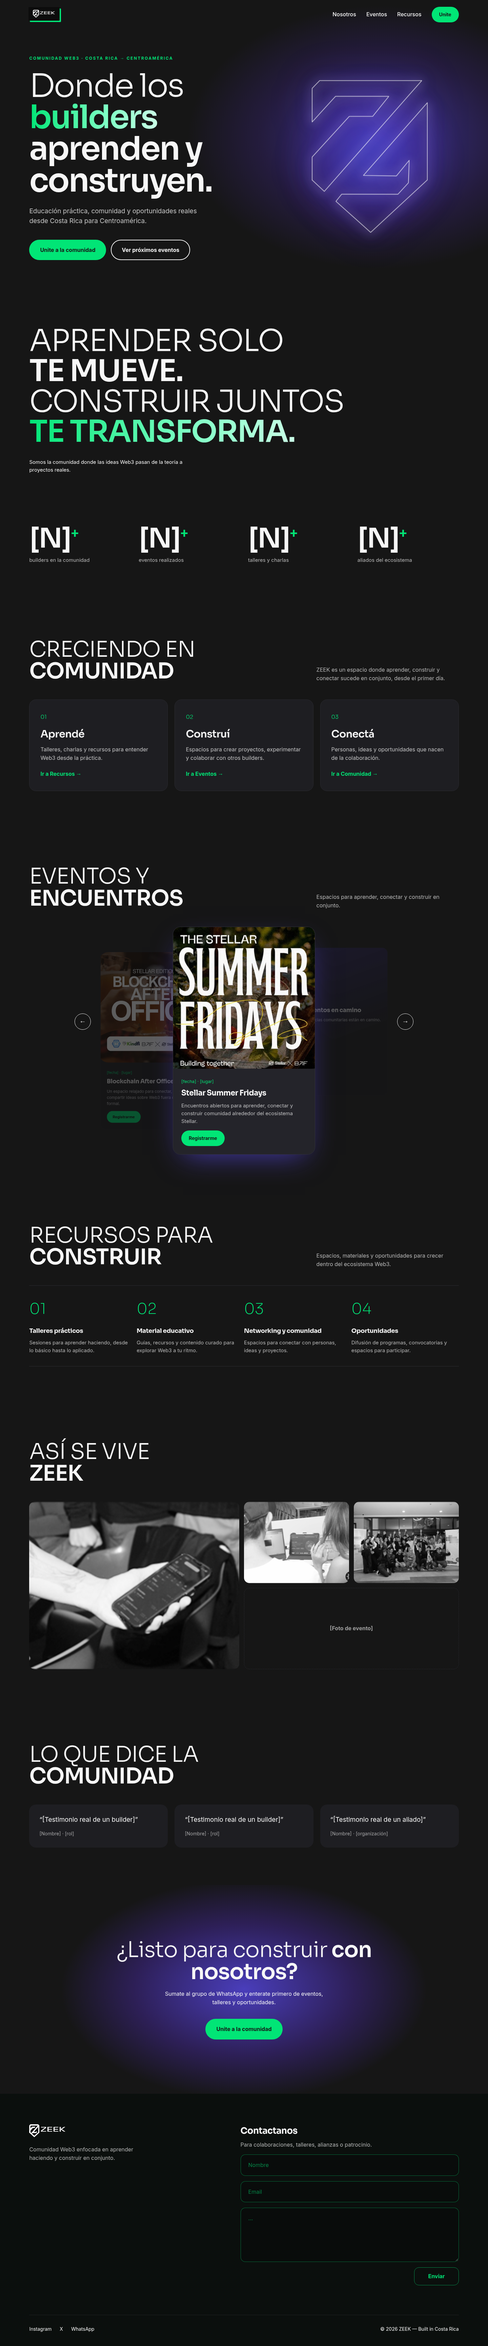
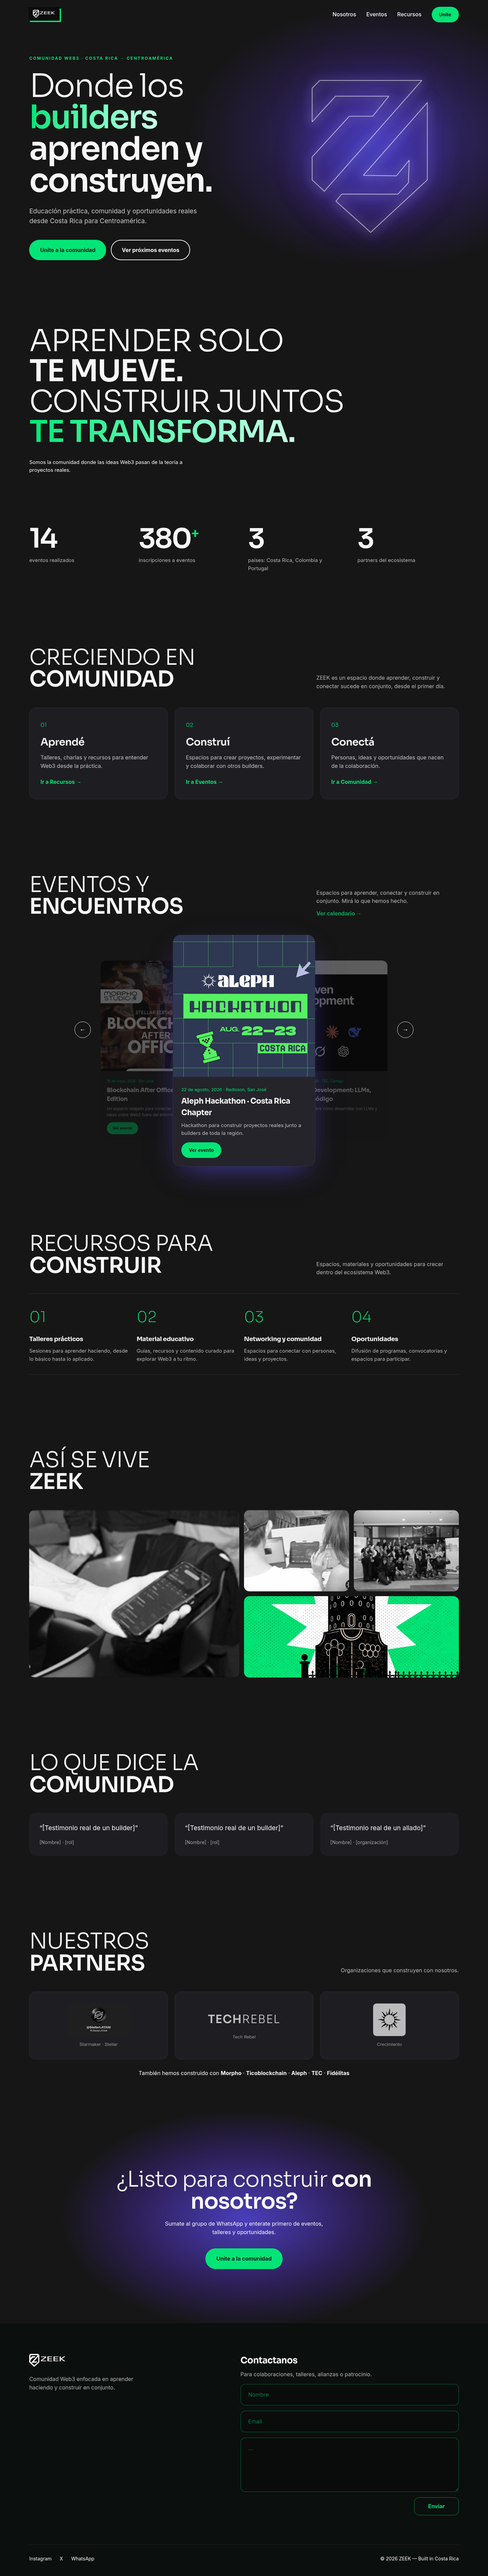
P9: datos reales de ZEEK (eventos, partners, cifras, links)

diff --git a/p9/index.html b/p9/index.html
@@ -45,17 +45,17 @@ h2{font-size:clamp(30px,4.4vw,68px);line-height:1.02;text-transform:uppercase}.h
 /* carousel */
 .car{position:relative;height:640px;perspective:1400px}
 .slide{position:absolute;top:0;left:50%;width:min(420px,78vw);margin-left:calc(min(420px,78vw)/-2);background:var(--c2);border:1px solid #303038;border-radius:22px;overflow:hidden;transition:transform .6s cubic-bezier(.2,.8,.2,1),opacity .6s,filter .6s;cursor:pointer}
-.slide img{aspect-ratio:1;object-fit:cover;width:100%}.slide>div{padding:24px}.slide small{color:var(--g);font-size:13px}.slide h3{font-size:22px;margin:6px 0 8px}.slide p{opacity:.72;font-size:15px;margin-bottom:16px}
+.slide img{aspect-ratio:1;object-fit:cover;object-position:top;width:100%}.slide>div{padding:24px}.slide small{color:var(--g);font-size:13px}.slide h3{font-size:22px;margin:6px 0 8px}.slide p{opacity:.72;font-size:15px;margin-bottom:16px}
 .slide.soon{display:flex;flex-direction:column;justify-content:center;min-height:560px;background:linear-gradient(160deg,rgba(91,75,242,.35),var(--c2) 60%)}
 .slide.c{transform:translateX(0) scale(1);z-index:3;box-shadow:0 30px 80px -30px rgba(91,75,242,.7)}
-.slide.l{transform:translateX(-62%) scale(.78);z-index:1;opacity:.55;filter:brightness(.6)}
+.slide.h{transform:scale(.6);opacity:0;z-index:0;pointer-events:none}.cal{display:inline-block;margin-top:12px;color:var(--g);font-weight:700}.slide.l{transform:translateX(-62%) scale(.78);z-index:1;opacity:.55;filter:brightness(.6)}
 .slide.r{transform:translateX(62%) scale(.78);z-index:1;opacity:.55;filter:brightness(.6)}
 .cc{display:flex;justify-content:center;align-items:center;gap:18px;margin-top:10px}.arr{position:absolute;top:280px;transform:translateY(-50%);z-index:5;backdrop-filter:blur(8px);background:rgba(22,22,22,.6)!important;}#pv{left:calc(50% - min(420px,78vw)/2 - 290px)}#nx{right:calc(50% - min(420px,78vw)/2 - 290px)}.arr:hover{background:var(--g)!important}.arr,.cc button{width:48px;height:48px;border-radius:50%;border:1.5px solid var(--w);background:none;color:var(--w);font-size:20px;cursor:pointer}.arr:hover{background:var(--g);border-color:var(--g);color:var(--k)}
 .dots{display:flex;gap:8px}.dots i{width:9px;height:9px;border-radius:9px;background:#444;transition:.3s;cursor:pointer}.dots i.on{width:28px;background:var(--g)}
 /* recursos */
 .rec{display:grid;grid-template-columns:repeat(4,1fr);border-top:1px solid #2c2c30}.rec article{padding:34px 26px 34px 0;border-bottom:1px solid #2c2c30}.rec b{font-family:Sora;font-weight:200;font-size:44px;color:var(--g);display:block;margin-bottom:18px}.rec h3{font-size:18px;margin-bottom:8px}.rec p{opacity:.7;font-size:15px}
 /* gallery */
-.gal{display:grid;grid-template-columns:2fr 1fr 1fr;grid-template-rows:240px 240px;gap:14px}.gal img,.phd{width:100%;height:100%;object-fit:cover;border-radius:16px}.gal img:first-child{grid-row:span 2}.phd{display:grid;place-items:center;grid-column:span 2;border:1px dashed #3a3a44;opacity:.6;font-weight:700}
+.gal{display:grid;grid-template-columns:2fr 1fr 1fr;grid-template-rows:240px 240px;gap:14px}.gal img,.phd{width:100%;height:100%;object-fit:cover;border-radius:16px}.gal img:first-child{grid-row:span 2}.gal .wide{grid-column:span 2;object-position:center 30%}.phd{display:grid;place-items:center;grid-column:span 2;border:1px dashed #3a3a44;opacity:.6;font-weight:700}
 .tq{display:grid;grid-template-columns:repeat(3,1fr);gap:20px}.tq blockquote{padding:30px;border-radius:20px;background:var(--c);font-size:19px}.tq cite{display:block;margin-top:16px;font-style:normal;font-size:14px;opacity:.6}
 /* cierre */
 .cierre{text-align:center;padding:160px 6vw;background:radial-gradient(ellipse 50% 70% at 50% 50%,rgba(91,75,242,.75),rgba(99,53,237,.3) 45%,transparent 75%)}
@@ -73,38 +73,38 @@ form input::placeholder,form textarea::placeholder{color:rgba(1,229,118,.55)}for
 @media(max-width:860px){.burger{display:block;font-size:26px;cursor:pointer}.nav nav{display:none;position:absolute;top:100%;left:0;right:0;flex-direction:column;padding:24px;gap:18px;background:rgba(22,22,22,.95);backdrop-filter:blur(16px)}#m:checked~nav{display:flex}
 section{padding:72px 6vw}.hero{grid-template-columns:1fr;min-height:auto;padding-top:130px;background:radial-gradient(ellipse 90% 40% at 50% 80%,rgba(91,75,242,.5),transparent 70%)}.hero h1{font-size:clamp(32px,9.6vw,56px)}.iso{max-width:300px;margin:20px auto 0}
 .mani p{font-size:clamp(24px,7.6vw,48px)}.stats{grid-template-columns:1fr 1fr}.cards,.tq{grid-template-columns:1fr}.rec{grid-template-columns:1fr 1fr}
-.car{height:600px}#pv{left:0}#nx{right:0}.slide.l{transform:translateX(-30%) scale(.8)}.slide.r{transform:translateX(30%) scale(.8)}
+.car{height:600px}#pv{left:0}#nx{right:0}.slide.h{transform:scale(.6);opacity:0;z-index:0;pointer-events:none}.cal{display:inline-block;margin-top:12px;color:var(--g);font-weight:700}.slide.l{transform:translateX(-30%) scale(.8)}.slide.r{transform:translateX(30%) scale(.8)}
 .gal{grid-template-columns:1fr 1fr;grid-template-rows:160px 160px 160px}.gal img:first-child{grid-column:span 2;grid-row:auto}footer{grid-template-columns:1fr}.soc span{margin-left:0}h2{font-size:clamp(26px,7.6vw,40px)}.cierre{padding:110px 6vw}}
-</style></head><body>
+.pl{display:grid;grid-template-columns:repeat(3,1fr);gap:20px}.pl a{display:flex;flex-direction:column;align-items:center;justify-content:center;gap:14px;height:200px;border-radius:18px;background:var(--c);border:1px solid #2b2b31;transition:.3s}.pl img{height:96px;max-width:70%;object-fit:contain;border-radius:10px;filter:grayscale(1) brightness(.9) contrast(1.1);opacity:.75;transition:.3s}.pl span{font-size:13px;opacity:.55}.pl a:hover{border-color:var(--g)}.pl a:hover img{filter:none;opacity:1}.wm{font-family:Sora;font-size:34px;font-weight:600;letter-spacing:.04em;opacity:.75;transition:.3s}.wm i{font-style:normal;font-weight:300}.pl a:hover .wm{opacity:1;color:var(--g)}.also{margin-top:28px;opacity:.65;text-align:center}.also b{font-weight:600;color:var(--w)}@media(max-width:860px){.pl{grid-template-columns:1fr}.pl a{height:150px}}</style></head><body>
 <header class="nav" id="nav"><a class="logo" href="#top"><span><img src="assets/zeek-navbar.png" alt="ZEEK"></span></a>
 <input type="checkbox" id="m"><label for="m" class="burger">☰</label>
-<nav><a href="#nosotros">Nosotros</a><a href="#eventos">Eventos</a><a href="#recursos">Recursos</a><a class="btn pri sm" href="https://chat.whatsapp.com/DD9aCaSvCDEI7avYGZNVby?mode=gi_t">Unite</a></nav></header>
+<nav><a href="#nosotros">Nosotros</a><a href="#eventos">Eventos</a><a href="#recursos">Recursos</a><a class="btn pri sm" href="https://chat.whatsapp.com/IwohPWSez627OG74k8jRvA">Unite</a></nav></header>
 <section class="hero" id="top"><div>
 <p class="eyebrow">Comunidad Web3 · Costa Rica → Centroamérica</p>
 <h1><span class="thin">Donde los</span> <span class="heavy grad">builders</span> <span class="heavy">aprenden y construyen.</span></h1>
 <p class="lead">Educación práctica, comunidad y oportunidades reales desde Costa Rica para Centroamérica.</p>
-<div class="ctas"><a class="btn pri" href="https://chat.whatsapp.com/DD9aCaSvCDEI7avYGZNVby?mode=gi_t">Unite a la comunidad</a><a class="btn sec" href="#eventos">Ver próximos eventos</a></div></div>
+<div class="ctas"><a class="btn pri" href="https://chat.whatsapp.com/IwohPWSez627OG74k8jRvA">Unite a la comunidad</a><a class="btn sec" href="#eventos">Ver próximos eventos</a></div></div>
 <div class="iso"><img src="assets/zeek-glow.png" alt="Isotipo ZEEK"></div></section>
 <section class="mani"><p class="d"><span class="thin">Aprender solo</span><br><span class="heavy">te mueve.</span><br><span class="thin">Construir juntos</span><br><span class="heavy grad">te transforma.</span></p><small>Somos la comunidad donde las ideas Web3 pasan de la teoría a proyectos reales.</small></section>
-<section class="stats"><div><b>[N]<sup>+</sup></b><span>builders en la comunidad</span></div><div><b>[N]<sup>+</sup></b><span>eventos realizados</span></div><div><b>[N]<sup>+</sup></b><span>talleres y charlas</span></div><div><b>[N]<sup>+</sup></b><span>aliados del ecosistema</span></div></section>
+<section class="stats"><div><b>14</b><span>eventos realizados</span></div><div><b>380<sup>+</sup></b><span>inscripciones a eventos</span></div><div><b>3</b><span>países: Costa Rica, Colombia y Portugal</span></div><div><b>3</b><span>partners del ecosistema</span></div></section>
 <section id="nosotros"><div class="hd"><h2><span class="thin">Creciendo en</span><br><span class="heavy">comunidad</span></h2><p>ZEEK es un espacio donde aprender, construir y conectar sucede en conjunto, desde el primer día.</p></div>
 <div class="cards"><article class="card"><i>01</i><h3>Aprendé</h3><p>Talleres, charlas y recursos para entender Web3 desde la práctica.</p><a href="#recursos">Ir a Recursos →</a></article>
 <article class="card"><i>02</i><h3>Construí</h3><p>Espacios para crear proyectos, experimentar y colaborar con otros builders.</p><a href="#eventos">Ir a Eventos →</a></article>
-<article class="card"><i>03</i><h3>Conectá</h3><p>Personas, ideas y oportunidades que nacen de la colaboración.</p><a href="https://chat.whatsapp.com/DD9aCaSvCDEI7avYGZNVby?mode=gi_t">Ir a Comunidad →</a></article></div></section>
-<section id="eventos"><div class="hd"><h2><span class="thin">Eventos y</span><br><span class="heavy">encuentros</span></h2><p>Espacios para aprender, conectar y construir en conjunto.</p></div>
-<div class="car" id="car"><button class="arr" id="pv" aria-label="Anterior">←</button><button class="arr" id="nx" aria-label="Siguiente">→</button>
-<article class="slide"><img src="assets/event1.png" alt="Blockchain After Office"><div><small>[fecha] · [lugar]</small><h3>Blockchain After Office</h3><p>Un espacio relajado para conectar, conversar y compartir ideas sobre Web3 fuera del entorno formal.</p><a class="btn pri sm" href="#">Registrarme</a></div></article>
-<article class="slide"><img src="assets/event2.png" alt="Stellar Summer Fridays"><div><small>[fecha] · [lugar]</small><h3>Stellar Summer Fridays</h3><p>Encuentros abiertos para aprender, conectar y construir comunidad alrededor del ecosistema Stellar.</p><a class="btn pri sm" href="#">Registrarme</a></div></article>
-<article class="slide soon"><div><small>Próximamente</small><h3>Nuevos eventos en camino</h3><p>Nuevas experiencias comunitarias están en camino. Quedate cerca.</p><a class="btn sec sm" href="https://chat.whatsapp.com/DD9aCaSvCDEI7avYGZNVby?mode=gi_t">Avisame</a></div></article></div>
+<article class="card"><i>03</i><h3>Conectá</h3><p>Personas, ideas y oportunidades que nacen de la colaboración.</p><a href="https://chat.whatsapp.com/IwohPWSez627OG74k8jRvA" target="_blank" rel="noopener">Ir a Comunidad →</a></article></div></section>
+<section id="eventos"><div class="hd"><h2><span class="thin">Eventos y</span><br><span class="heavy">encuentros</span></h2><p>Espacios para aprender, conectar y construir en conjunto. Mirá lo que hemos hecho.<br><a class="cal" href="https://luma.com/ZEEK-" target="_blank" rel="noopener">Ver calendario →</a></p></div>
+<div class="car" id="car"><button class="arr" id="pv" aria-label="Anterior">←</button><button class="arr" id="nx" aria-label="Siguiente">→</button><article class="slide"><img src="assets/ev-bao.jpg" alt="Blockchain After Office · Morpho Edition" loading="lazy"><div><small>19 de mayo, 2026 · San José</small><h3>Blockchain After Office · Morpho Edition</h3><p>Un espacio relajado para conectar y compartir ideas sobre Web3 fuera del entorno formal.</p><a class="btn pri sm" href="https://luma.com/5zuk0e82" target="_blank" rel="noopener">Ver evento</a></div></article><article class="slide"><img src="assets/ev-aleph.jpg" alt="Aleph Hackathon · Costa Rica Chapter" loading="lazy"><div><small>22 de agosto, 2026 · Radisson, San José</small><h3>Aleph Hackathon · Costa Rica Chapter</h3><p>Hackathon para construir proyectos reales junto a builders de toda la región.</p><a class="btn pri sm" href="https://luma.com/76w11xtx" target="_blank" rel="noopener">Ver evento</a></div></article><article class="slide"><img src="assets/ev-ai.jpg" alt="AI-Driven Development: LLMs, agentes y código" loading="lazy"><div><small>11 de setiembre, 2026 · TEC, Cartago</small><h3>AI-Driven Development: LLMs, agentes y código</h3><p>Taller práctico sobre cómo desarrollar con LLMs y agentes de IA.</p><a class="btn pri sm" href="https://luma.com/i2xxr5zj" target="_blank" rel="noopener">Ver evento</a></div></article><article class="slide"><img src="assets/ev-pizza.jpg" alt="Global Pizza Party San José" loading="lazy"><div><small>22 de mayo, 2026 · San José</small><h3>Global Pizza Party San José</h3><p>Pizza, comunidad y conversación en la celebración global de builders.</p><a class="btn pri sm" href="https://luma.com/yeaozqwx" target="_blank" rel="noopener">Ver evento</a></div></article><article class="slide"><img src="assets/ev-learn.jpg" alt="Morpho Learn: Fundamentos de Web3 & Stellar" loading="lazy"><div><small>4 de mayo, 2026 · En línea</small><h3>Morpho Learn: Fundamentos de Web3 & Stellar</h3><p>Sesión introductoria para entender Web3 y el ecosistema Stellar desde cero.</p><a class="btn pri sm" href="https://luma.com/bfdjm7g4" target="_blank" rel="noopener">Ver evento</a></div></article><article class="slide"><img src="assets/ev-meridian.jpg" alt="Meridian Ascent" loading="lazy"><div><small>29 de octubre, 2026 · Lisboa, Portugal</small><h3>Meridian Ascent</h3><p>Encuentro de la comunidad durante Stellar Meridian en Lisboa.</p><a class="btn pri sm" href="https://luma.com/3bjch5ds" target="_blank" rel="noopener">Ver evento</a></div></article><article class="slide soon"><div><small>Próximamente</small><h3>Nuevos eventos en camino</h3><p>Nuevas experiencias comunitarias están en camino. Quedate cerca.</p><a class="btn sec sm" href="https://luma.com/ZEEK-" target="_blank" rel="noopener">Avisame</a></div></article></div>
 <div class="cc"><div class="dots" id="dots"></div></div></section>
 <section id="recursos"><div class="hd"><h2><span class="thin">Recursos para</span><br><span class="heavy">construir</span></h2><p>Espacios, materiales y oportunidades para crecer dentro del ecosistema Web3.</p></div>
 <div class="rec"><article><b>01</b><h3>Talleres prácticos</h3><p>Sesiones para aprender haciendo, desde lo básico hasta lo aplicado.</p></article><article><b>02</b><h3>Material educativo</h3><p>Guías, recursos y contenido curado para explorar Web3 a tu ritmo.</p></article><article><b>03</b><h3>Networking y comunidad</h3><p>Espacios para conectar con personas, ideas y proyectos.</p></article><article><b>04</b><h3>Oportunidades</h3><p>Difusión de programas, convocatorias y espacios para participar.</p></article></div></section>
-<section><div class="hd"><h2><span class="thin">Así se vive</span><br><span class="heavy">ZEEK</span></h2></div><div class="gal"><img src="assets/people1.png" alt=""><img src="assets/people2.png" alt=""><img src="assets/people3.png" alt=""><div class="phd">[Foto de evento]</div></div></section>
+<section><div class="hd"><h2><span class="thin">Así se vive</span><br><span class="heavy">ZEEK</span></h2></div><div class="gal"><img src="assets/people1.png" alt=""><img src="assets/people2.png" alt=""><img src="assets/people3.png" alt=""><img src="assets/gal-meet.jpg" alt="Meet ZEEK · Build with AI Pura Vida" class="wide"></div></section>
 <section><div class="hd"><h2><span class="thin">Lo que dice la</span><br><span class="heavy">comunidad</span></h2></div><div class="tq"><blockquote>“[Testimonio real de un builder]”<cite>[Nombre] · [rol]</cite></blockquote><blockquote>“[Testimonio real de un builder]”<cite>[Nombre] · [rol]</cite></blockquote><blockquote>“[Testimonio real de un aliado]”<cite>[Nombre] · [organización]</cite></blockquote></div></section>
-<section class="cierre"><h2><span class="thin">¿Listo para construir</span> <span class="heavy">con nosotros?</span></h2><p>Sumate al grupo de WhatsApp y enterate primero de eventos, talleres y oportunidades.</p><a class="btn pri" href="https://chat.whatsapp.com/DD9aCaSvCDEI7avYGZNVby?mode=gi_t">Unite a la comunidad</a></section>
+<section class="partners"><div class="hd"><h2><span class="thin">Nuestros</span><br><span class="heavy">partners</span></h2><p>Organizaciones que construyen con nosotros.</p></div>
+<div class="pl"><a href="https://linktr.ee/StellarLATAM" target="_blank" rel="noopener"><img src="assets/p-stellar.jpg" alt="Starmaker – Stellar"><span>Starmaker · Stellar</span></a><a href="https://www.techrebel.world" target="_blank" rel="noopener"><b class="wm">TECH<i>REBEL</i></b><span>Tech Rebel</span></a><a href="https://x.com/crecimientoar" target="_blank" rel="noopener"><img src="assets/p-crecimiento.jpg" alt="Crecimiento"><span>Crecimiento</span></a></div>
+<p class="also">También hemos construido con <b>Morpho</b> · <b>Ticoblockchain</b> · <b>Aleph</b> · <b>TEC</b> · <b>Fidélitas</b></p></section>
+<section class="cierre"><h2><span class="thin">¿Listo para construir</span> <span class="heavy">con nosotros?</span></h2><p>Sumate al grupo de WhatsApp y enterate primero de eventos, talleres y oportunidades.</p><a class="btn pri" href="https://chat.whatsapp.com/IwohPWSez627OG74k8jRvA">Unite a la comunidad</a></section>
 <footer id="contacto"><div class="fc"><img src="assets/zeek-navbar.png" alt="ZEEK"><p>Comunidad Web3 enfocada en aprender haciendo y construir en conjunto.</p></div>
 <form onsubmit="return false"><h3>Contactanos</h3><p>Para colaboraciones, talleres, alianzas o patrocinio.</p><input placeholder="Nombre"><input type="email" placeholder="Email"><textarea placeholder="..."></textarea><button class="send">Enviar</button></form>
-<div class="soc"><a href="https://www.instagram.com/zeek_cr/">Instagram</a><a href="http://x.com/ZEEK_CR">X</a><a href="https://chat.whatsapp.com/DD9aCaSvCDEI7avYGZNVby?mode=gi_t">WhatsApp</a><span>© 2026 ZEEK — Built in Costa Rica</span></div></footer>
+<div class="soc"><a href="https://www.instagram.com/zeek_cr/">Instagram</a><a href="https://x.com/ZEEK_CR">X</a><a href="https://chat.whatsapp.com/IwohPWSez627OG74k8jRvA" target="_blank" rel="noopener">WhatsApp</a><span>© 2026 ZEEK — Built in Costa Rica</span></div></footer>
 <script>
 document.documentElement.classList.add('js');
 const nav=document.getElementById('nav');const sc=()=>nav.classList.toggle('sc',scrollY>30);addEventListener('scroll',sc);sc();
@@ -112,7 +112,7 @@ const o=new IntersectionObserver(e=>e.forEach(x=>{if(x.isIntersecting){x.target.
 document.querySelectorAll('.card').forEach(c=>c.addEventListener('mousemove',e=>{const r=c.getBoundingClientRect();c.style.setProperty('--x',e.clientX-r.left+'px');c.style.setProperty('--y',e.clientY-r.top+'px')}));
 const s=[...document.querySelectorAll('.slide')],dots=document.getElementById('dots');let i=0,t;
 s.forEach((_,k)=>{const d=document.createElement('i');d.onclick=()=>go(k);dots.appendChild(d)});
-function go(n){i=(n+s.length)%s.length;s.forEach((el,k)=>{el.className=el.className.replace(/ ?\b[clr]\b/g,'');const d=(k-i+s.length)%s.length;el.classList.add(d==0?'c':d==1?'r':'l')});[...dots.children].forEach((d,k)=>d.classList.toggle('on',k==i));clearInterval(t);t=setInterval(()=>go(i+1),5500)}
+function go(n){i=(n+s.length)%s.length;s.forEach((el,k)=>{el.classList.remove('c','l','r','h');const d=(k-i+s.length)%s.length;el.classList.add(d==0?'c':d==1?'r':d==s.length-1?'l':'h')});[...dots.children].forEach((d,k)=>d.classList.toggle('on',k==i));clearInterval(t);t=setInterval(()=>go(i+1),5500)}
 s.forEach((el,k)=>el.addEventListener('click',e=>{if(!el.classList.contains('c')){e.preventDefault();go(k)}}));
 document.getElementById('pv').onclick=()=>go(i-1);document.getElementById('nx').onclick=()=>go(i+1);
 let x0=null;const car=document.getElementById('car');car.addEventListener('touchstart',e=>x0=e.touches[0].clientX,{passive:true});car.addEventListener('touchend',e=>{if(x0==null)return;const dx=e.changedTouches[0].clientX-x0;if(Math.abs(dx)>40)go(i+(dx<0?1:-1));x0=null});
